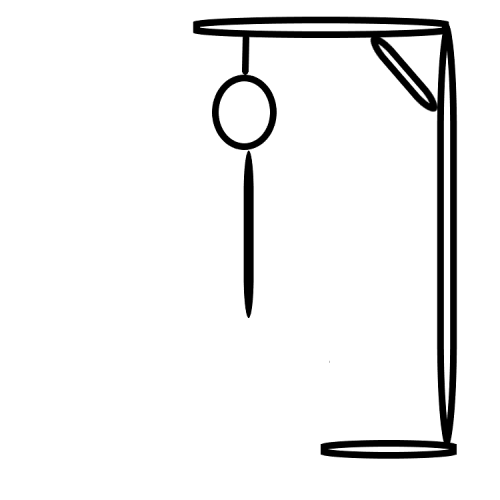
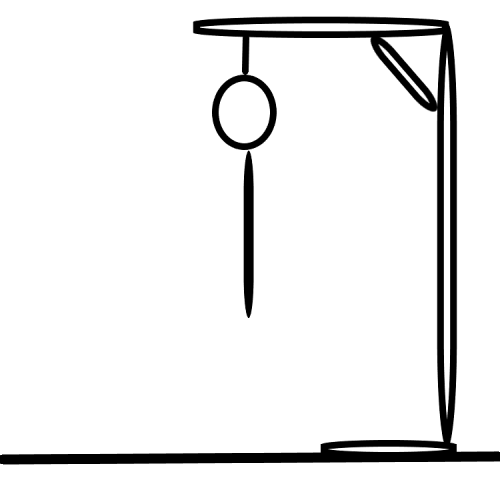
added guess validation and upodated art

Changed region(s): [[0.0, 0.9, 1.0, 0.93]]

diff --git a/js/hangman.js b/js/hangman.js
@@ -6,12 +6,25 @@
 /// Declare global variables
 var wordList = ["july", "quartz", "chrysanthemum"]
 var secretWord = ""
-
+space = document.createElement("div")
+space.innerHTML = " "
+wordRow = document.getElementById("word")
+hangCounter = 0
+var images = [
+  "./images/0.png",
+  "./images/1.png",
+  "./images/2.png",
+  "./images/3.png",
+  "./images/4.png",
+  "./images/5.png",
+  "./images/6.png"
+]
 
 /////// Functions
 
 function gameInit() {
   // clear board from previous game (if any)  
+  
   selectWord() // select a word from the list &split the word into an array of letters
   createWordRow() // create the word row in hmtl
 }
@@ -25,9 +38,28 @@ function gameInit() {
   // remove click functionality on letter board
   //check for win or loss
 function checkLetter(l) {
-  // x = document.getElementsByClassName(l)
-  // console.log(x)
-  l = l
+  letterPresent = false
+  secretWord.forEach(element => {
+    if (l == element) {
+      letterPresent = true
+    }
+  })
+  if (letterPresent == true){
+    // make letter appear in word
+    x = document.getElementById(l)
+    x.setAttribute("class", "blue")
+    x.setAttribute("onclick", "")
+  } else {
+    x = document.getElementById(l)
+    x.setAttribute("class", "red")
+    x.setAttribute("onclick", "")
+    hangCounter ++
+    changeHangedStatus()
+  }
+}
+
+function changeHangedStatus () {
+  document.getElementById("gallows").src = images[hangCounter]
 }
 
 function selectWord () {
@@ -41,17 +73,18 @@ function randomRange(myMin, myMax) {
   return Math.floor(Math.random() * (myMax - myMin +1)) + myMin;
 }
 
+
 function createWordRow() {
   wordRow = document.getElementById("word")
   secretWord.forEach(element => {
     letter = document.createElement("div")
-    // letter.setAttribute("class","invisible")
-    letter.className = ["invisible", element].join(" ")
-    // letter.setAttribute("class", element)
-    letter.innerHTML = element
-    wordRow.appendChild(letter)
+    letter.className = ["secretLetter", element].join(" ")
+    letter.innerHTML = "_"
+    wordRow.appendChild(letter);
   })
+
 }
+
 
   // gameInProgress = true
   // var image = document.createElement("IMG")
@@ -71,92 +104,92 @@ function createWordRow() {
 
 
 
-  function submit () {
-    availableHeroes = []
-    availableBoards = []
-    players = 2
-    selectedPlayer = ["N/A", "N/A", "N/A", "N/A"]
-    playerCount()
-    isChecked()
-    setData.forEach (set => createArrays(set))
-    if (availableBoards.length === 0 || availableHeroes.length < players) {
-      alert("The expansions you have selected don't have enough content to support the number of players you have selected")
-      document.location.reload()
-    } else {
-      selectBoard()
-      selectHeroes()
-    }
-    display("displayPlayer1", "Player 1: ", 0)
-    display("displayPlayer2", "Player 2: ", 1)
-    display("displayPlayer3", "Player 3: ", 2)
-    display("displayPlayer4", "Player 4: ", 3)
-    display("displayBoard", "Selected board: ", 0)
-  }
+  // function submit () {
+  //   availableHeroes = []
+  //   availableBoards = []
+  //   players = 2
+  //   selectedPlayer = ["N/A", "N/A", "N/A", "N/A"]
+  //   playerCount()
+  //   isChecked()
+  //   setData.forEach (set => createArrays(set))
+  //   if (availableBoards.length === 0 || availableHeroes.length < players) {
+  //     alert("The expansions you have selected don't have enough content to support the number of players you have selected")
+  //     document.location.reload()
+  //   } else {
+  //     selectBoard()
+  //     selectHeroes()
+  //   }
+  //   display("displayPlayer1", "Player 1: ", 0)
+  //   display("displayPlayer2", "Player 2: ", 1)
+  //   display("displayPlayer3", "Player 3: ", 2)
+  //   display("displayPlayer4", "Player 4: ", 3)
+  //   display("displayBoard", "Selected board: ", 0)
+  // }
   
-  function display(htmlId, string, player) {
-    if (string == "Selected board: ") {
-      let x = document.getElementById(htmlId)
-      x.innerHTML = selectedBoard
-    }  else if (selectedPlayer[player] != "N/A") {
-      let x = document.getElementById(htmlId)
-      x.innerHTML = string + selectedPlayer[player]
-    } else if (selectedPlayer[player] == "N/A") {
-      let x = document.getElementById(htmlId)
-      x.innerHTML = ""
-    }
-  }  
+  // function display(htmlId, string, player) {
+  //   if (string == "Selected board: ") {
+  //     let x = document.getElementById(htmlId)
+  //     x.innerHTML = selectedBoard
+  //   }  else if (selectedPlayer[player] != "N/A") {
+  //     let x = document.getElementById(htmlId)
+  //     x.innerHTML = string + selectedPlayer[player]
+  //   } else if (selectedPlayer[player] == "N/A") {
+  //     let x = document.getElementById(htmlId)
+  //     x.innerHTML = ""
+  //   }
+  // }  
 
   
 
-  function isChecked() {
-    setData[0].inUse = document.getElementById("volOne").checked
-    setData[1].inUse = document.getElementById("bruceLee").checked
-    setData[2].inUse = document.getElementById("robinHood").checked
-    setData[3].inUse = document.getElementById("raptors").checked
-    setData[4].inUse = document.getElementById("buffy").checked
-    setData[5].inUse = document.getElementById("cobbleAndFog").checked
-    setData[6].inUse = document.getElementById("beowulf").checked
-  }
-
-  function createArrays (set) {
-    if (set["inUse"] == true) {
-      for (i = 0; i < set["heroes"].length; i++) {
-       availableHeroes.push(set["heroes"][i])
-      }
-      if (players == 2) {
-        for (i = 0; i < set["boards2"].length; i++) {
-          availableBoards.push(set["boards2"][i])
-        }
-      } else {
-        for (i = 0; i < set["boards4"].length; i++) {
-          availableBoards.push(set["boards4"][i])
-        }
-      }
-    }
-  }
-
-  function playerCount() {
-    if (document.getElementById('twoPlayers').checked) {
-      players = 2
-    } else if (document.getElementById('threePlayers').checked) {
-      players = 3
-    } else {
-      players = 4
-    }
-  }
-  
-  // function randomRange(myMin, myMax) {
-  //   return Math.floor(Math.random() * (myMax - myMin +1)) + myMin;
+  // function isChecked() {
+  //   setData[0].inUse = document.getElementById("volOne").checked
+  //   setData[1].inUse = document.getElementById("bruceLee").checked
+  //   setData[2].inUse = document.getElementById("robinHood").checked
+  //   setData[3].inUse = document.getElementById("raptors").checked
+  //   setData[4].inUse = document.getElementById("buffy").checked
+  //   setData[5].inUse = document.getElementById("cobbleAndFog").checked
+  //   setData[6].inUse = document.getElementById("beowulf").checked
   // }
 
-  function selectBoard() {
-    selectedBoard = availableBoards[randomRange(0, (availableBoards.length - 1))]
-  }
+  // function createArrays (set) {
+  //   if (set["inUse"] == true) {
+  //     for (i = 0; i < set["heroes"].length; i++) {
+  //      availableHeroes.push(set["heroes"][i])
+  //     }
+  //     if (players == 2) {
+  //       for (i = 0; i < set["boards2"].length; i++) {
+  //         availableBoards.push(set["boards2"][i])
+  //       }
+  //     } else {
+  //       for (i = 0; i < set["boards4"].length; i++) {
+  //         availableBoards.push(set["boards4"][i])
+  //       }
+  //     }
+  //   }
+  // }
 
-  function selectHeroes() {
-    for (i = 0; i < players; i++) {
-      x = randomRange(0, (availableHeroes.length - 1))
-      selectedPlayer[i] = availableHeroes[x]
-      availableHeroes.splice(x,1) //Removes selected hero from available pool to avoid duplication
-    }
-  }
+  // function playerCount() {
+  //   if (document.getElementById('twoPlayers').checked) {
+  //     players = 2
+  //   } else if (document.getElementById('threePlayers').checked) {
+  //     players = 3
+  //   } else {
+  //     players = 4
+  //   }
+  // }
+  
+  // // function randomRange(myMin, myMax) {
+  // //   return Math.floor(Math.random() * (myMax - myMin +1)) + myMin;
+  // // }
+
+  // function selectBoard() {
+  //   selectedBoard = availableBoards[randomRange(0, (availableBoards.length - 1))]
+  // }
+
+  // function selectHeroes() {
+  //   for (i = 0; i < players; i++) {
+  //     x = randomRange(0, (availableHeroes.length - 1))
+  //     selectedPlayer[i] = availableHeroes[x]
+  //     availableHeroes.splice(x,1) //Removes selected hero from available pool to avoid duplication
+  //   }
+  // }

diff --git a/index.html b/index.html
@@ -18,21 +18,54 @@
   <p class="by">
     by Jared Pinfold
   </p>
-  <button onclick="gameInit()">NEW GAME</button>
   
   <!-- Gallows -->
-  <img src="images/0.png">
+  <div class="container">
+    <img src="images/0.png" id="gallows">
+  </div>
+  
+  <div class="container">
+    <button onclick="gameInit()">NEW GAME</button>
+  </div>
+
 
   <!-- Secret word -->
   <div id="word" class="container">
-    
+    <!-- filled by the JS file -->
   </div>
   <br>
+
+
   <!-- Letters -->
-  <div id="letters">
-    <span id="a" onclick="checkLetter(a)">a</span> b c d e f e g h<br>
-    i j k l m n o p q<br>
-    r s t u v w x y z
+  <div id="letters" class="container">
+    <div>
+      <span id="a" onclick="checkLetter('a')">a</span>
+      <span id="b" onclick="checkLetter('b')">b</span>
+      <span id="c" onclick="checkLetter('c')">c</span>
+      <span id="d" onclick="checkLetter('d')">d</span>
+      <span id="e" onclick="checkLetter('e')">e</span>
+      <span id="f" onclick="checkLetter('f')">f</span>
+      <span id="g" onclick="checkLetter('g')">g</span>
+      <span id="h" onclick="checkLetter('h')">h</span>
+      <span id="i" onclick="checkLetter('i')">i</span>
+      <span id="j" onclick="checkLetter('j')">j</span>
+      <span id="k" onclick="checkLetter('k')">k</span>
+      <span id="l" onclick="checkLetter('l')">l</span>
+      <span id="m" onclick="checkLetter('m')">m</span>
+      <span id="n" onclick="checkLetter('n')">n</span>
+      <span id="o" onclick="checkLetter('o')">o</span>
+      <span id="p" onclick="checkLetter('p')">p</span>
+      <span id="q" onclick="checkLetter('q')">q</span>
+      <span id="r" onclick="checkLetter('r')">r</span>
+      <span id="s" onclick="checkLetter('s')">s</span>
+      <span id="t" onclick="checkLetter('t')">t</span>
+      <span id="u" onclick="checkLetter('u')">u</span>
+      <span id="v" onclick="checkLetter('v')">v</span>
+      <span id="w" onclick="checkLetter('w')">w</span>
+      <span id="x" onclick="checkLetter('x')">x</span>
+      <span id="y" onclick="checkLetter('y')">y</span>
+      <span id="z" onclick="checkLetter('z')">z</span>
+    </div>
   </div>
   
 

diff --git a/css/style.css b/css/style.css
@@ -4,6 +4,11 @@ body {
   background-color: cornsilk;
 }
 
+.container {
+  display: flex;
+  justify-content: center;
+}
+
 .title {
   margin-bottom: 0;
 }
@@ -20,9 +25,8 @@ body {
   color: red;
 }
 
-.invisible {
-  border-bottom: thick solid black;
-  color: cornsilk;
+.secretLetter {
+  margin: 15px;
 }
 
 #word {
